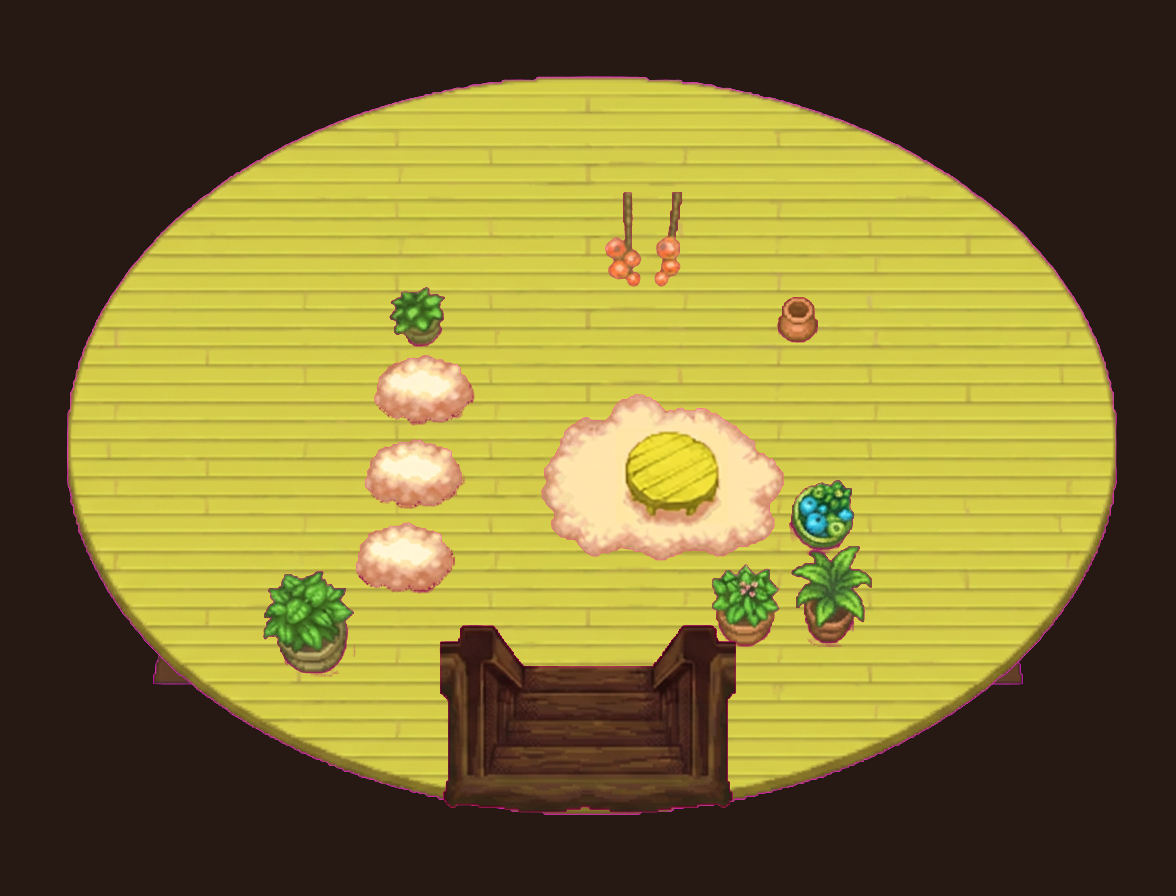
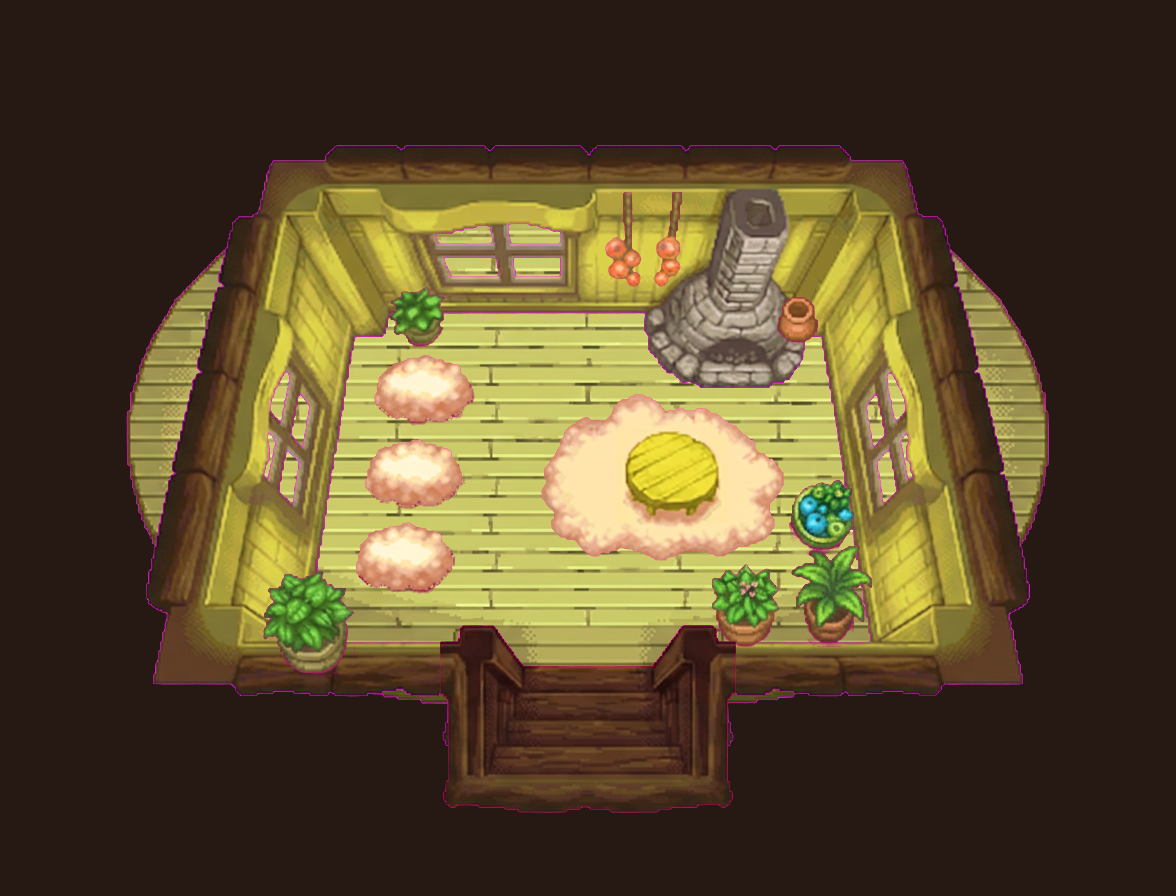
Keep empty-room layer as separate variant

diff --git a/source/maison_layers_generated/build.py b/source/maison_layers_generated/build.py
@@ -11,7 +11,7 @@ for n,f in files:
 # explicit empty-room base is the generated floor layer; decoration/architecture remain independent.
 full=Image.new('RGBA',ims[0].size,(38,25,20,255))
 # compositing order follows the generated layer semantics: floor, walls, architecture, objects, entrance
-for index in [1,0,2,3,4]: full.alpha_composite(ims[index])
+for index in [1,0,3,4]: full.alpha_composite(ims[index])
 full.save(O/'Maison_Interieure_Ovale_Multicalque.png')
 manifest={'method':'each layer generated independently with image generator, then chroma-keyed and packed','canvas_px':list(full.size),'layers':[n+'.png' for n,_ in files],'water_layer':None,'objects_own_layer':'03_objets_decoration.png','source_reference':'d5c79863 IMG_5001.png'}
 (O/'manifest.json').write_text(json.dumps(manifest,indent=2,ensure_ascii=False));h={}
